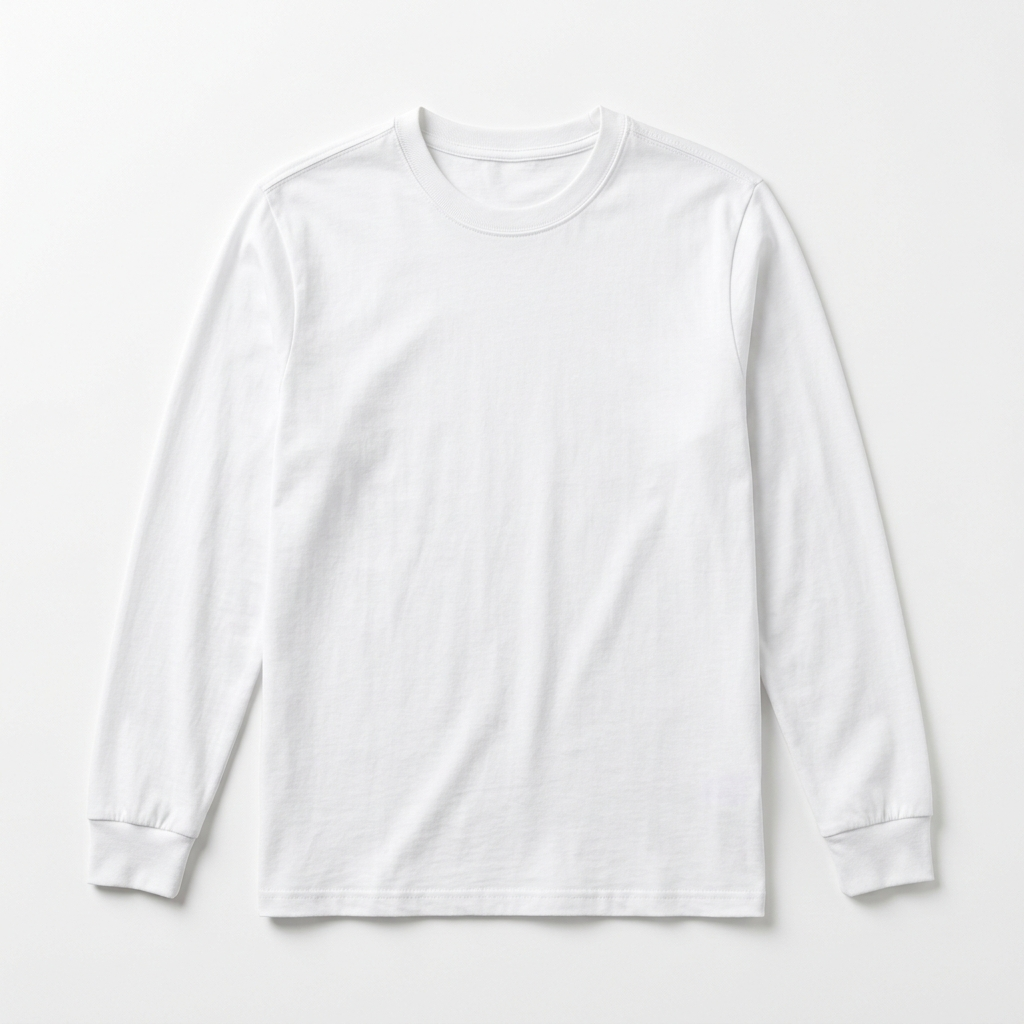
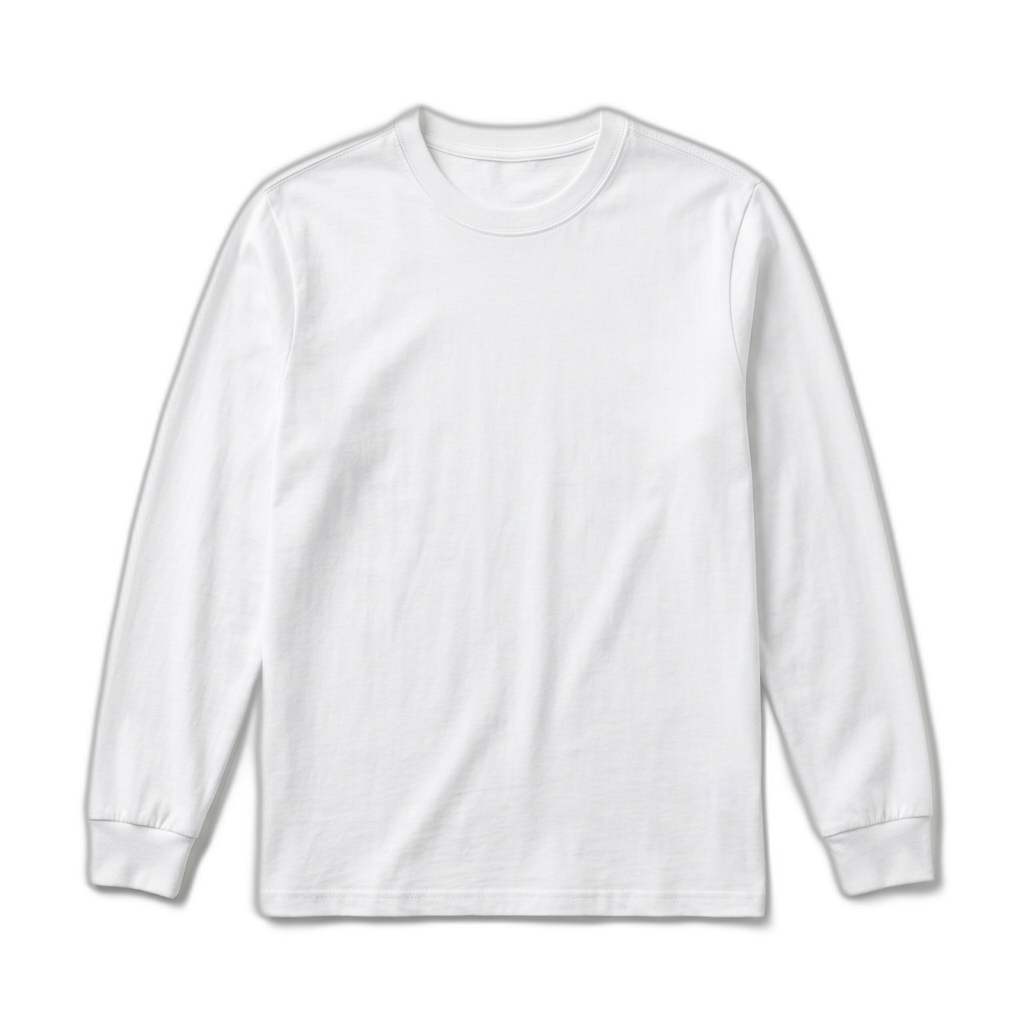
Fix PNG transparency and add organic tie-dye SVG filter

diff --git a/src/app/custom/page.tsx b/src/app/custom/page.tsx
@@ -109,11 +109,20 @@ export default function CustomPage() {
         <div className="w-full lg:w-5/12 shrink-0 flex flex-col gap-4">
           <div className="relative aspect-square w-full rounded-3xl overflow-hidden bg-gray-50 border border-gray-100 flex items-center justify-center p-4">
             
+            {/* SVG Filter for Organic Tie-Dye Effect */}
+            <svg width="0" height="0" className="absolute">
+              <filter id="tie-dye-filter">
+                <feTurbulence type="fractalNoise" baseFrequency="0.015" numOctaves="3" result="warp" />
+                <feDisplacementMap xChannelSelector="R" yChannelSelector="G" scale="40" in="SourceGraphic" in2="warp" />
+              </filter>
+            </svg>
+
             {/* The Gradient Background Layer (Masked exactly to the shirt shape) */}
             <div 
               className="absolute inset-4 transition-all duration-700"
               style={{
                 ...getPreviewStyle(),
+                filter: 'url(#tie-dye-filter)',
                 WebkitMaskImage: `url(/blank_${garment.id}.png)`,
                 WebkitMaskSize: 'contain',
                 WebkitMaskRepeat: 'no-repeat',